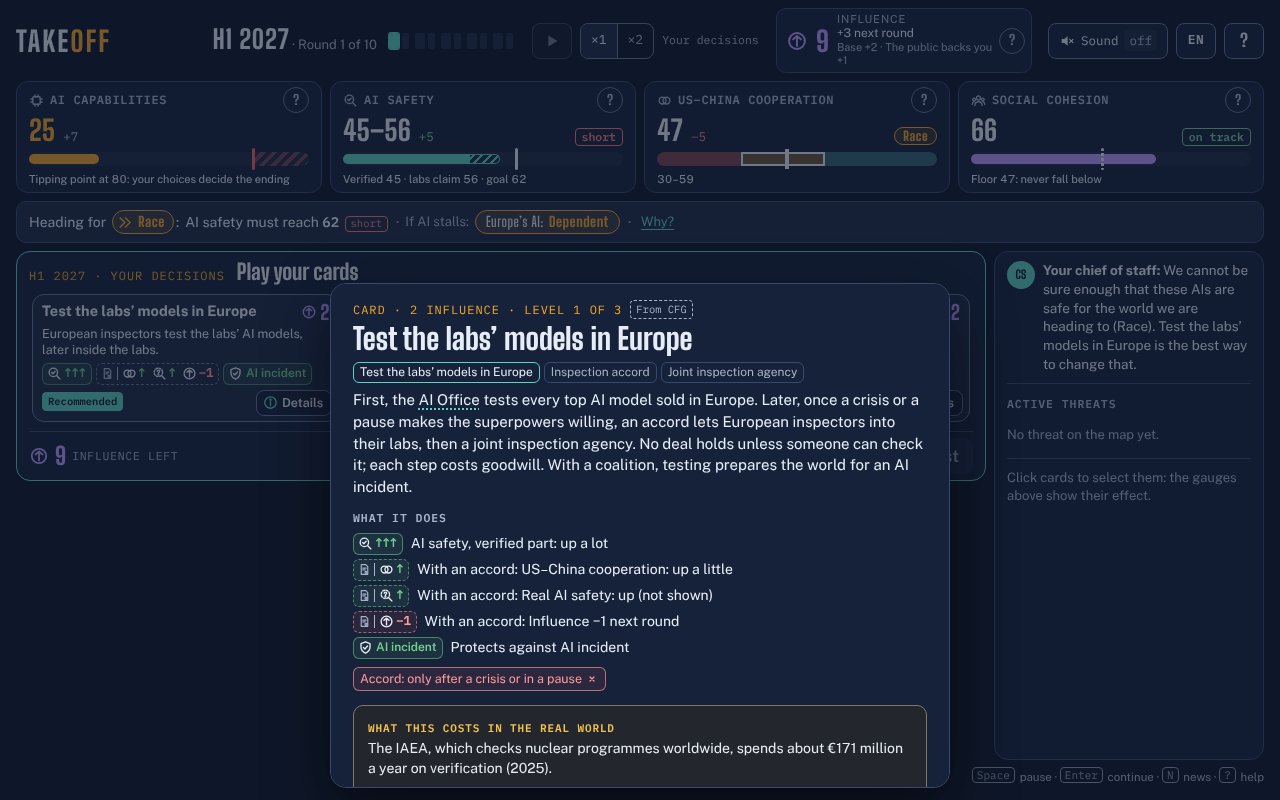
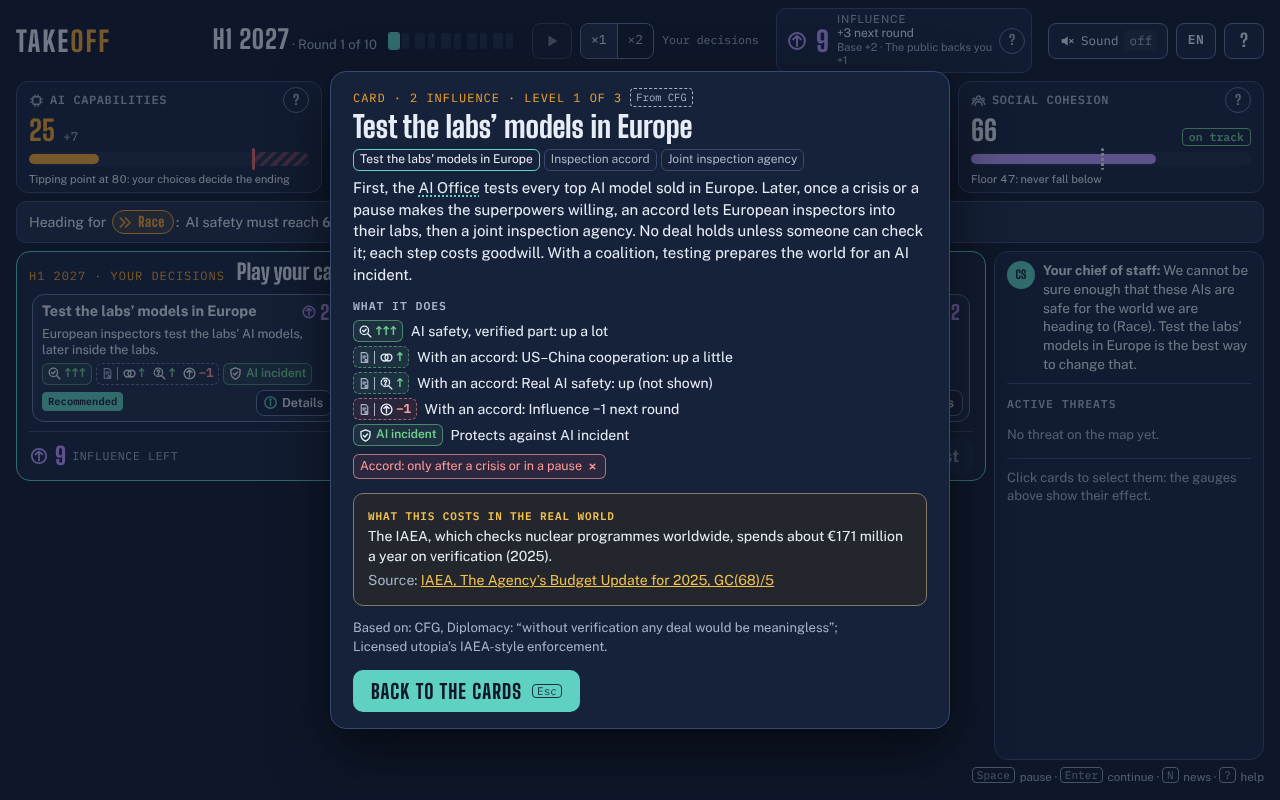
Card Details: centred in the window on a desktop or a tablet (max height, scrolls inside when long); phones keep the bottom sheet
Claude-Session: https://claude.ai/code/session_01LSwpJS5xn5SGb1m53Db9uo

Changed region(s): [[0.25, 0.0938, 0.75, 0.9688]]

diff --git a/src/ui/screens/decide.ts b/src/ui/screens/decide.ts
@@ -3,7 +3,7 @@
 // on a tablet, a list on a phone): name, cost, a one-line purpose and every effect as an icon with arrows, plus the
 // chance word for cards that can fail. The chief of staff's recommendation comes first, then what can be played,
 // then what costs too much; cards not available yet wait behind one line that opens them. Everything else (the
-// full text, conditions, levels, the chance's reason, the provenance) is in Details, a dialog over the cards (a bottom
+// full text, conditions, levels, the chance's reason, the provenance) is in Details, a dialog centred in the window (a bottom
 // sheet on a phone). The right column has the chief of staff's advice, the active threats and the selection's notes.
 // Selecting cards previews their effect on the real gauges and the heading line (the app draws it from the preview
 // this module hands over). Clicking a card toggles it (aria-pressed); Escape goes back to the map; nothing is
@@ -75,8 +75,8 @@ function cardHtml(c: CardView, o: { selected: boolean; recommended: boolean; opt
 const SAID_BY_ICONS = /^(US–China cooperation:|Social cohesion:|AI safety:|AI safety shown:|Real safety up|Protects against|Influence [+−]|Europe’s AI → (Open|Dependent)$|Shows the true|Accord: (US–China|real safety|Influence)|Level 2: Influence|Model theft: cut|Ransomware threat grows|Softens job shocks|Washington retaliates)/;
 const extra = (c: CardView) => [...c.ups, ...c.downs].filter((x) => !SAID_BY_ICONS.test(x.text));
 
-/** The full card in a dialog over the cards (a bottom sheet on a phone). `onOption` applies a choice of what to ask for. */
-async function showDetails(c: CardView, o: { selected: boolean; option?: string; top: number; onOption: (id: string) => void }): Promise<void> {
+/** The full card in a dialog centred in the window (a bottom sheet on a phone). `onOption` applies a choice of what to ask for. */
+async function showDetails(c: CardView, o: { selected: boolean; option?: string; onOption: (id: string) => void }): Promise<void> {
   const level = c.level ? ` · ${t('ui.card.levelLower', 'level {level} of {count}', { level: c.level, count: c.levels!.length })}` : '';
   const option = o.option ?? c.options[0]?.id;
   const m = openModal(
@@ -104,8 +104,7 @@ async function showDetails(c: CardView, o: { selected: boolean; option?: string;
      <div class="row-btns"><button type="button" class="btn-primary" data-primary data-escape data-action="ok">${esc(t('ui.card.back', 'Back to the cards'))} ${kbd('esc')}</button></div>`,
     { cls: 'info card-details', overlayCls: 'card-ov', label: tr(c.title), describedBy: '.proposal' },
   );
-  // over the cards, the gauges above them still in view (a wide window); a click outside closes it
-  m.overlay.style.setProperty('--dk-top', `${Math.max(0, Math.round(o.top))}px`);
+  // centred in the window (a bottom sheet on a phone); a click outside closes it
   m.overlay.addEventListener('click', (ev) => {
     if (ev.target === m.overlay) m.el.querySelector<HTMLButtonElement>('[data-escape]')?.click();
   });
@@ -296,7 +295,6 @@ export async function showDecision(e: EngineApi, s: GameState, date: string, vie
       await showDetails(v, {
         selected: !!p,
         option: p?.option ?? optPref[id],
-        top: handEl.getBoundingClientRect().top - 8,
         onOption: (o) => {
           optPref[id] = o;
           const pick = picks.find((x) => x.id === id);

diff --git a/src/ui/styles.css b/src/ui/styles.css
@@ -720,11 +720,11 @@ body.jolt .mapwrap { animation: jolt .5s ease; }
 .bad-text { color: var(--crit-text); }
 .bad-text .ico { width: 14px; height: 14px; }
 .dec-btns { display: flex; gap: 8px; flex-wrap: wrap; justify-content: flex-end; }
-/* the card's details: over the cards, the gauges above still in view on a wide window; a bottom sheet on a phone */
+/* the card's details: centred in the window on a desktop or a tablet (a long card scrolls inside); a bottom sheet on a phone */
 .overlay.card-ov { background: color-mix(in srgb, var(--night) 55%, transparent); backdrop-filter: none; }
 @media (min-width: 768px) and (min-height: 541px) {
-  .overlay.card-ov { padding-top: max(16px, var(--dk-top, 28px)); }
-  .overlay.card-ov .modal { margin: 0; }
+  .overlay.card-ov { align-items: center; padding: 16px; }
+  .overlay.card-ov .modal { margin: auto; }
 }
 .modal.card-details { max-width: 620px; }
 @media (max-width: 767px), (max-height: 540px) {
@@ -734,7 +734,7 @@ body.jolt .mapwrap { animation: jolt .5s ease; }
 }
 @keyframes sheetin { from { transform: translateY(40px); opacity: .4; } }
 @media (min-width: 768px) and (min-height: 541px) {
-  .overlay.card-ov .modal.card-details { max-height: calc(100dvh - max(16px, var(--dk-top, 28px)) - 12px); overflow: auto; padding: 16px 22px; }
+  .overlay.card-ov .modal.card-details { max-height: calc(100dvh - 32px); overflow: auto; overscroll-behavior: contain; padding: 16px 22px; }
 }
 .card-details .cd-head { display: flex; align-items: center; gap: 8px; flex-wrap: wrap; }
 .card-details h2 { margin: 4px 0 8px; font-size: 30px; }

diff --git a/docs/V4_BUILD_NOTES.md b/docs/V4_BUILD_NOTES.md
@@ -46,7 +46,7 @@ In the order it landed (commits on `v4`):
 20. **Effects in words before deciding, numbers after** (playtests of 26 Oct: players computed from exact numbers and found choices obvious). Before a choice, gauge moves read as a direction and a size: "a little" (≤ 3), "some" (4–7), "a lot" (≥ 8), `TUNING.effectWords` and `src/data/effects.ts`; on card faces and details, on the gauges while cards are selected, in the selection's announcement, on request answers and in their accessible names. Influence stays a number. After the decision, the deltas, feed items, the request's reaction and the announcements keep their numbers. The bars' ghost marks still show roughly where a selection leads (a picture, not a number). No rule changed: the seeded simulation is byte-identical.
 21. **Actions can fail** (playtests of 26 Oct: "too easy", and one player asked for it). Only where it is realistic: diplomatic and external cards (talks, coalition, inspection accord and joint agency, ASML lever, pact against bioweapons, pause call, licensing treaty); domestic cards that spend Europe's own money and Europe's own testing always work. The chance reads public values only (the cooperation zone, Social cohesion, the coalition's level) and is shown in words (Likely to work / Uncertain / Long shot) with its reasons; a failure spends the Influence and does nothing else, and the news says why in one sentence with its basis. Each roll has its own seeded stream (seed, round, card) rather than the game's generator, so a failure changes nothing else in the game and a reload cannot reroll it (as social events and letters, decisions 13 and 17). Simple on purpose: no partial effect, no extra blowback. Simulation and backlog in DEVELOPER_NOTES ("Tuning changes for v4", backlog item 11).
 22. **More contrast and a little feedback** (playtests of 26 Oct: "slightly more contrast", "some juice"). All text already met AA; it was raised a notch within the charter: `--mute` #97a6c2 → #a5b3cb (6.5 → 7.5:1 on deck), `--paper-mute` #5c6475 → #4f5768 (4.8 → 5.8:1 on paper), `--rule` #2c3c5f → #364971 for dividers, and a new `--edge` #62769e (3:1 on deck and deck-2, WCAG 1.4.11) for the outline of controls (quiet buttons, icon buttons, speed, feed tabs, "+N more", sound, gauge "?", request answers, Breaking choices, cards; a locked card keeps the dimmer rule). The cooperation bar's zones are stronger (rival 45%, race and pause 35%, were 35/25/25), chip borders 65% of their colour (were 45%; the bad chips' border uses their text colour), partner names on the map #7487ad (4.4:1, were 3.1:1), light feed items keep a full border and their icon at 90%. Feedback, transform and opacity only (no layout shift), all off with reduced motion where the plain state remains: a selected card lifts 2 px with one ring spreading from it and its "Selected" tag (now with a tick) pops in; a removed card settles; on Confirm the chosen cards rise under a "Played" stamp for a third of a second while the others step back (the panel is inert meanwhile; skipped with reduced motion); a gauge that changes glows briefly in the change's colour on its number and bar while the number counts to its new value (the count already existed).
-23. **Compact cards and a lighter reaction** (owner's feedback, 27 Oct: cards cut on smaller screens, wildly different sizes, four family columns "confusing and useless", a heavy reaction window after each request). Supersedes the families, the density steps and the "Back to the map" reaction of decision 19. One CSS grid of cards (`repeat(auto-fill, minmax(280px, 1fr))`, `grid-auto-rows: 1fr`: in an auto-height grid every row takes the tallest card's height, so all cards are the same size; on a phone a list of natural heights). The face keeps what a choice needs at a glance (name, cost, a ≤ 12-word `short` purpose, every effect as an icon, the chance word); conditions, levels, the full text, the chance's reasons and the provenance moved to Details, a dialog positioned over the cards (`--dk-top`) or a bottom sheet. The icons are drawn once (`src/ui/fx.ts`, `GICON`) and shared with the gauges' heads for learnability; each card's icons come from `face` in `src/data/cards.ts`, built from the same `TUNING` numbers as its chips (arrows by `sizeWord`, the verified part's move from the margin), so face and rules agree; Details shows the chips the icons do not already say (matched on the engine's English). The order (recommended, playable, too expensive, then "Not available yet" folded) is fixed when the panel opens. `CardDef.family` and `FAMILIES` stay (the content walk keeps their names) but the UI no longer groups by them. The cooperation gauge's zone became its status chip (cooperation is never a goal or a floor, so the chip was free). The request card turns over in place after an answer and closes by itself after `REACTION_MS` (4 s; a resting mouse holds it, a click, Enter or Continue closes it sooner; reduced motion: no turn); the e2e and a11y helpers close it with its `[data-primary]` button or let it go. UI only: no rule changed, the seeded simulation is byte-identical.
+23. **Compact cards and a lighter reaction** (owner's feedback, 27 Oct: cards cut on smaller screens, wildly different sizes, four family columns "confusing and useless", a heavy reaction window after each request). Supersedes the families, the density steps and the "Back to the map" reaction of decision 19. One CSS grid of cards (`repeat(auto-fill, minmax(280px, 1fr))`, `grid-auto-rows: 1fr`: in an auto-height grid every row takes the tallest card's height, so all cards are the same size; on a phone a list of natural heights). The face keeps what a choice needs at a glance (name, cost, a ≤ 12-word `short` purpose, every effect as an icon, the chance word); conditions, levels, the full text, the chance's reasons and the provenance moved to Details, a dialog centred in the window (owner's feedback, 27 Oct: it sat too low over the cards; a long card scrolls inside) or a bottom sheet on a phone. The icons are drawn once (`src/ui/fx.ts`, `GICON`) and shared with the gauges' heads for learnability; each card's icons come from `face` in `src/data/cards.ts`, built from the same `TUNING` numbers as its chips (arrows by `sizeWord`, the verified part's move from the margin), so face and rules agree; Details shows the chips the icons do not already say (matched on the engine's English). The order (recommended, playable, too expensive, then "Not available yet" folded) is fixed when the panel opens. `CardDef.family` and `FAMILIES` stay (the content walk keeps their names) but the UI no longer groups by them. The cooperation gauge's zone became its status chip (cooperation is never a goal or a floor, so the chip was free). The request card turns over in place after an answer and closes by itself after `REACTION_MS` (4 s; a resting mouse holds it, a click, Enter or Continue closes it sooner; reduced motion: no turn); the e2e and a11y helpers close it with its `[data-primary]` button or let it go. UI only: no rule changed, the seeded simulation is byte-identical.
 
 ## Requests: kept and dropped
 

diff --git a/docs/V4_SPEC.md b/docs/V4_SPEC.md
@@ -73,7 +73,7 @@ A character arrives during the six months with a short request (≤ 40 words) an
 
 - **The hand** (compact cards, 27 Oct; owner's feedback: cards were cut on small screens, of uneven sizes, and the four family columns confused): **one grid of cards all the same size**, about three columns on a laptop, two on a tablet, a list on a phone (6 to 9 cards visible at 1280×800, more on a bigger window; a bigger hand scrolls inside the panel, never the page; a small hand, as in round 1, gets a panel only as tall as its cards, the bar right under them, while the right column keeps its height). Each card shows its **name**, its **cost**, a **one-line purpose** (≤ 12 words, `short` in `src/data/cards.ts`) and **all its effects as icons**: the gauge's icon with 1 to 3 arrows (↑ a little, ↑↑ some, ↑↑↑ a lot; ↓ the same down; AI safety by its verified part), the hidden real safety as a dashed magnifier with "?" and one arrow (never a size), Influence as a number ("−1", "×2" for two rounds), Europe's AI as "→ Open", a protection as a shield and the threat's short name, a risk as a warning sign; effects that come only with the inspection accord (or from the coalition's level 2) share one dashed group behind the accord's mark ("L2"). Cards that can fail add their chance in a word. Tags at the foot: Recommended, New (arrived this round), Opportunity with rounds left, and for a card that cannot be played now "Too expensive" or "Not now" (with a lock). Never colour alone: arrows, signs, icons and words carry the meaning; screen readers hear one sentence per effect ("US–China cooperation: up a little") and the mouse gets it as a tooltip.
 - **Order**: the chief of staff's recommended card first, then the playable ones, then the ones that cost too much; cards waiting for something else (a pause, an accord, a round of rest) sit behind one line, "Not available yet (n)", that opens them. The order is set when the decisions open, so cards never move while the player selects.
-- **Details**, a real button with its word on every card, opens a dialog over the cards (the gauges stay in view above on a wide window; a bottom sheet on a phone): the full proposal, the effects in words beside their icons, the card's other conditions and side effects ("Only in a pause", "Inspections sharper"), its levels, what to ask for (the ASML lever's choice is made here), the chance and its reasons, the real-world example and cost with sources, the provenance tag and its basis. Escape or a click outside closes it and focus returns to the card's Details. Selecting is done on the card itself, not in Details.
+- **Details**, a real button with its word on every card, opens a dialog centred in the window (a long card scrolls inside it; a bottom sheet on a phone): the full proposal, the effects in words beside their icons, the card's other conditions and side effects ("Only in a pause", "Inspections sharper"), its levels, what to ask for (the ASML lever's choice is made here), the chance and its reasons, the real-world example and cost with sources, the provenance tag and its basis. Escape or a click outside closes it and focus returns to the card's Details. Selecting is done on the card itself, not in Details.
 - **The chief of staff** gives one recommendation, in words, without numbers, in the right column (on a phone, a line over the cards, "Your chief of staff: recommends …", that opens).
 - **Select** any number of cards Influence covers by clicking the cards (each is a toggle button, aria-pressed; announced when the decisions open: "Play as many as your Influence allows"; the Influence tip and Help explain it) (the hand shows what is still affordable). The selection **previews on the real gauges** in words ("up some" by the value: effects read as a direction and a size, a little / some / a lot, before deciding, and as numbers after Confirm; a dotted mark on the bar, the targets dashed where they would move) and in the line ("If you confirm: Heading for [Race] → [Pause]") only when the world or a goal's status would change; Europe's AI chip shows "Dependent → Open".
 - **Diplomacy can fail** (playtests of 26 Oct): the talks, the coalition, the inspection accord and joint agency, the ASML lever, the pact against bioweapons, the pause call and the licensing treaty show their odds in words, never as a number: **Likely to work**, **Uncertain** or **Long shot**, with what makes them easier or harder now (talks are easier in a pause and a long shot in a rupture; the coalition and the ASML lever need a Europe that holds together; the pause call and the treaty need allies). The preview shows a card working and warns when it may not. If it fails, the Influence is spent and nothing else happens; a headline in the feed says why in one plain sentence ("The Geneva talks broke up: neither side trusts what the other says it is building."), the decision reads "did not work", and the card can be tried again in a later round. Cards that spend Europe's own money, and Europe's own testing, always work.
